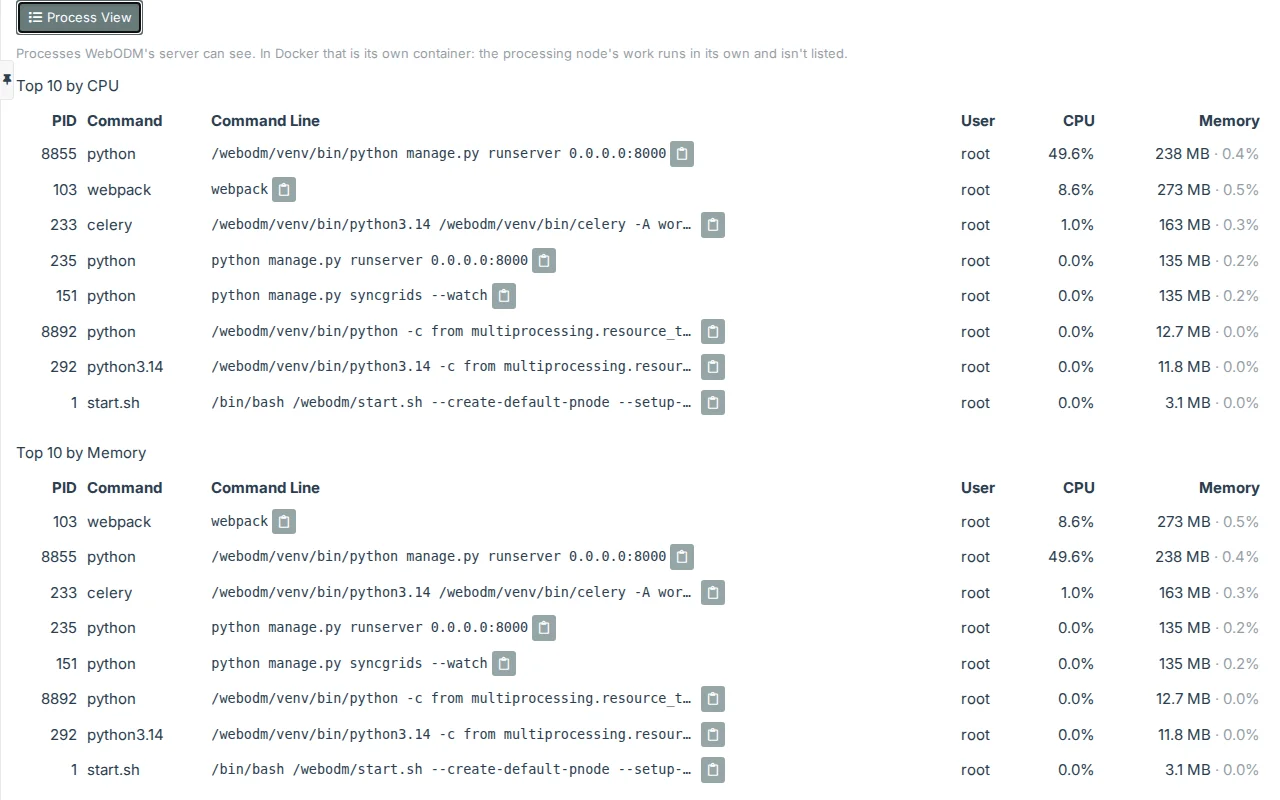
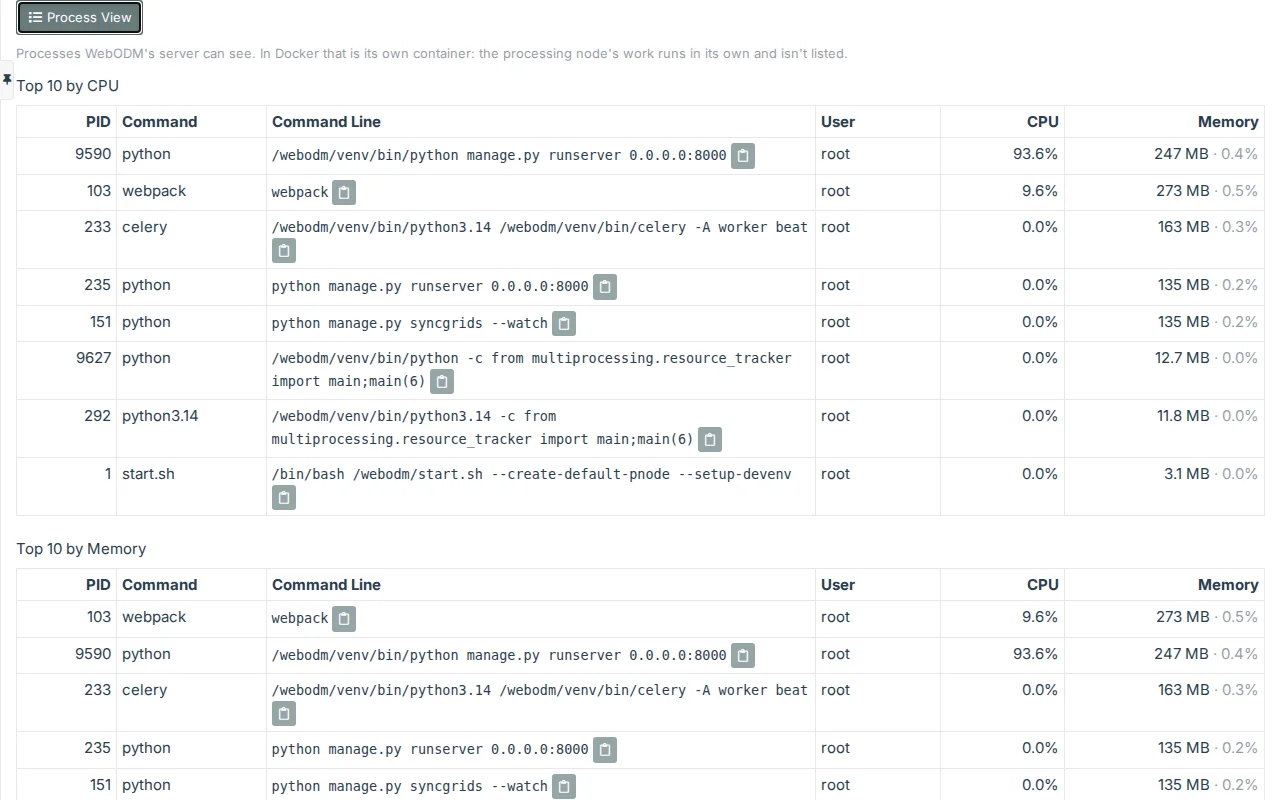
Process View: outlined tables with resizable columns, command lines wrapped and copied whole
The tables are table-bordered in the theme's border colour. Each heading's right edge resizes its column (drag, or
the arrow keys when focused; a double-click resets them), the same width in both tables, kept for the tab; a
refresh during a drag waits until it is let go. A command line wraps at its column's width and shows its first 512
characters; the copy button copies it whole, and the server now sends up to 32768 characters (Windows' longest).

diff --git a/tweakui/public/performance_page.js b/tweakui/public/performance_page.js
@@ -45,6 +45,11 @@
     // Process View (superusers): on or off kept for the tab (sessionStorage, as the graphs' readings), and what it says
     // when WebODM's server runs in a container
     var PROCESSES_KEY = "tweakui.performance.processes";
+    // Its tables' columns: their names and starting widths (shares of the table's width). Dragging a column's edge gives
+    // every column a width in pixels, the same in both tables, kept for the tab: at least COLUMN_MIN, an arrow key moving
+    // an edge COLUMN_STEP. A command line shows this many characters, its copy button copies it whole
+    var PROCESS_COLUMNS = [["PID", 8], ["Command", 12], ["Command Line", 44], ["User", 10], ["CPU", 10], ["Memory", 16]];
+    var COLUMNS_KEY = "tweakui.performance.process-columns", COLUMN_MIN = 40, COLUMN_STEP = 16, COMMAND_SHOWN = 512;
     var CONTAINER_NOTE = "Processes WebODM's server can see. In Docker that is its own container: the processing node's " +
         "work runs in its own and isn't listed.";
 
@@ -473,7 +478,9 @@
         var cpu = p.cpu === null || p.cpu === undefined ? '<span class="text-muted">Measuring...</span>' :
             "<span" + (cores ? ' title="' + escapeHtml((p.cpu / cores).toFixed(1) + "% of all " + plural(cores, "core", "cores")) + '"' : "") +
             ">" + escapeHtml(p.cpu.toFixed(1)) + "%</span>";
-        var command = p.command ? '<code class="tweakui-performance-command" title="' + escapeHtml(p.command) + '">' + escapeHtml(p.command) +
+        var long = p.command && p.command.length > COMMAND_SHOWN;
+        var command = p.command ? '<code class="tweakui-performance-command"' + (long ? ' title="' + escapeHtml(p.command) + '"' : "") + ">" +
+            escapeHtml(long ? p.command.slice(0, COMMAND_SHOWN) + "\u2026" : p.command) +
             '</code> <button type="button" class="btn btn-default btn-xs" data-act="copy-command" data-copy="' + escapeHtml(p.command) +
             '" title="Copy Command Line" aria-label="Copy Command Line"><i class="far fa-clipboard"></i></button>' :
             '<span class="text-muted">Not readable</span>';
@@ -483,24 +490,38 @@
             '</td><td class="tweakui-performance-number">' + cpu + '</td><td class="tweakui-performance-number">' + memory + "</td></tr>";
     }
 
-    // One of Process View's tables (list: null while there is nothing to show, which `empty` says)
-    function processTableHtml(kind, title, list, cores, total, empty) {
+    // A Process View table's width and its columns' (widths: each column's in pixels, or null for the starting shares)
+    function tableStyle(widths) {
+        return widths ? "width: " + widths.reduce(function (a, b) { return a + b; }, 0) + "px; min-width: 0" : "";
+    }
+    function columnsHtml(widths) {
+        return "<colgroup>" + PROCESS_COLUMNS.map(function (c, i) {
+            return '<col style="width: ' + (widths ? widths[i] + "px" : c[1] + "%") + '">';
+        }).join("") + "</colgroup>";
+    }
+
+    // One of Process View's tables (list: null while there is nothing to show, which `empty` says): outlined, each
+    // column's right edge a handle that resizes it
+    function processTableHtml(kind, title, list, cores, total, empty, widths) {
         var html = "<h5>" + title + "</h5>";
         if (!list) return html + '<p class="text-muted small">' + empty + "</p>";
-        return html + '<div class="tweakui-performance-scroll"><table class="table table-condensed tweakui-performance-process-table" data-processes-by="' +
-            kind + '"><thead><tr><th class="tweakui-performance-number">PID</th><th>Command</th><th>Command Line</th><th>User</th>' +
-            '<th class="tweakui-performance-number">CPU</th><th class="tweakui-performance-number">Memory</th></tr></thead><tbody>' +
+        return html + '<div class="tweakui-performance-scroll"><table class="table table-condensed table-bordered theme-border tweakui-performance-process-table" data-processes-by="' +
+            kind + '" style="' + tableStyle(widths) + '">' + columnsHtml(widths) + "<thead><tr>" + PROCESS_COLUMNS.map(function (c, i) {
+                return "<th" + (i === 0 || i > 3 ? ' class="tweakui-performance-number"' : "") + ">" + c[0] +
+                    '<span class="tweakui-performance-resize" role="separator" aria-orientation="vertical" tabindex="0" data-column="' + i +
+                    '" aria-label="Resize ' + c[0] + '" title="Drag to resize; double-click for the starting widths"></span></th>';
+            }).join("") + "</tr></thead><tbody>" +
             list.map(function (p) { return processRowHtml(p, cores, total); }).join("") + "</tbody></table></div>";
     }
 
     // Process View's tables: Top 10 by CPU above Top 10 by Memory (processes: the live figures' processes, undefined
     // until they come, null where the server can't read them)
-    function processesHtml(processes, cores, total) {
+    function processesHtml(processes, cores, total, widths) {
         if (processes === undefined) return '<p class="text-muted">Loading...</p>';
         if (!processes) return '<p class="text-muted">The server\'s processes can\'t be read.</p>';
         return (processes.container ? '<p class="text-muted small">' + CONTAINER_NOTE + "</p>" : "") +
-            processTableHtml("cpu", "Top 10 by CPU", processes.cpu, cores, total, "Measuring: CPU use shows from the next refresh.") +
-            processTableHtml("memory", "Top 10 by Memory", processes.memory, cores, total, "None.");
+            processTableHtml("cpu", "Top 10 by CPU", processes.cpu, cores, total, "Measuring: CPU use shows from the next refresh.", widths) +
+            processTableHtml("memory", "Top 10 by Memory", processes.memory, cores, total, "None.", widths);
     }
 
     // The Process View button (on: pressed) and the place for its tables
@@ -800,11 +821,14 @@
         var status = page.querySelector(".tweakui-performance-status");
         var state = {report: null, cpu: null, load: null, io: null, diskRates: null, history: {}, hover: null,
             seconds: EVERY_DEFAULT, minutes: HISTORY_DEFAULT, diskAt: 0, timer: null, busy: false,
-            looping: false, stopped: false, processesOn: false, processes: undefined};
+            looping: false, stopped: false, processesOn: false, processes: undefined, columns: null};
         try {
             state.processesOn = win.sessionStorage.getItem(PROCESSES_KEY) === "1";
+            var columns = JSON.parse(win.sessionStorage.getItem(COLUMNS_KEY) || "null");
+            if (Array.isArray(columns) && columns.length === PROCESS_COLUMNS.length &&
+                columns.every(function (w) { return typeof w === "number" && w >= COLUMN_MIN; })) state.columns = columns;
         } catch (e) {
-            // Storage that can't be used: Process View starts off
+            // Storage that can't be used: Process View starts off, its columns at their starting widths
         }
 
         // The readings this tab kept before a reload (sessionStorage: a new tab starts fresh, closing it forgets them);
@@ -916,10 +940,78 @@
         function redrawProcesses() {
             var holder = page.querySelector("[data-processes]");
             if (!holder || !state.processesOn) return;
+            // Not while a column is dragged: once it is let go
+            if (drag) {
+                drag.redraw = true;
+                return;
+            }
             var server = state.report.server;
             holder.innerHTML = processesHtml(state.processes, server.cpu && server.cpu.cores,
-                server.memory && server.memory.total);
+                server.memory && server.memory.total, state.columns);
         }
+
+        // Process View's columns: a width each in pixels (null: the starting shares), set on both tables and kept for
+        // the tab
+        var drag = null;
+        function setColumns(widths) {
+            state.columns = widths && widths.map(function (w) { return Math.max(COLUMN_MIN, Math.round(w)); });
+            Array.prototype.forEach.call(page.querySelectorAll(".tweakui-performance-process-table"), function (table) {
+                table.setAttribute("style", tableStyle(state.columns));
+                var cols = table.querySelectorAll("col");
+                PROCESS_COLUMNS.forEach(function (c, i) {
+                    if (cols[i]) cols[i].style.width = state.columns ? state.columns[i] + "px" : c[1] + "%";
+                });
+            });
+            try {
+                if (state.columns) win.sessionStorage.setItem(COLUMNS_KEY, JSON.stringify(state.columns));
+                else win.sessionStorage.removeItem(COLUMNS_KEY);
+            } catch (e) {
+                // Not kept: the tables still take them
+            }
+        }
+        // The columns' widths as drawn, where none are set yet
+        function columnWidths(handle) {
+            if (state.columns) return state.columns.slice();
+            return Array.prototype.map.call(handle.closest("tr").children, function (th) { return th.getBoundingClientRect().width; });
+        }
+        page.addEventListener("pointerdown", ui.guard(NAME, function (e) {
+            var handle = e.target && e.target.closest ? e.target.closest(".tweakui-performance-resize") : null;
+            if (!handle) return;
+            e.preventDefault();
+            var widths = columnWidths(handle), i = Number(handle.getAttribute("data-column"));
+            drag = {handle: handle, column: i, x: e.clientX, start: widths[i], widths: widths, redraw: false};
+            if (handle.setPointerCapture && e.pointerId !== undefined) handle.setPointerCapture(e.pointerId);
+            handle.classList.add("active");
+            // No text selected while dragging (main.css)
+            doc.documentElement.classList.add("tweakui-dragging");
+        }));
+        page.addEventListener("pointermove", ui.guard(NAME, function (e) {
+            if (!drag) return;
+            var widths = drag.widths.slice();
+            widths[drag.column] = drag.start + e.clientX - drag.x;
+            setColumns(widths);
+        }));
+        function endDrag() {
+            if (!drag) return;
+            var again = drag.redraw;
+            drag.handle.classList.remove("active");
+            doc.documentElement.classList.remove("tweakui-dragging");
+            drag = null;
+            if (again) redrawProcesses();
+        }
+        page.addEventListener("pointerup", ui.guard(NAME, endDrag));
+        page.addEventListener("pointercancel", ui.guard(NAME, endDrag));
+        page.addEventListener("dblclick", ui.guard(NAME, function (e) {
+            if (e.target && e.target.closest && e.target.closest(".tweakui-performance-resize")) setColumns(null);
+        }));
+        page.addEventListener("keydown", ui.guard(NAME, function (e) {
+            var handle = e.target && e.target.closest ? e.target.closest(".tweakui-performance-resize") : null;
+            if (!handle || (e.key !== "ArrowLeft" && e.key !== "ArrowRight")) return;
+            e.preventDefault();
+            var widths = columnWidths(handle), i = Number(handle.getAttribute("data-column"));
+            widths[i] += e.key === "ArrowRight" ? COLUMN_STEP : -COLUMN_STEP;
+            setColumns(widths);
+        }));
 
         // The Process View button: its tables open (asked at once, then on every refresh) or close
         function toggleProcesses(btn) {

diff --git a/tweakui/public/__tests__/performance_page.test.js b/tweakui/public/__tests__/performance_page.test.js
@@ -661,7 +661,7 @@ describe("the Performance page", () => {
         expect(words(cpuRowsShown[0])).toBe("12 celery /usr/bin/celery --serve odm 250.0% 2 GB \u00b7 3.1%");
         // CPU of one core, of all cores in its title; the command line whole in its title
         expect(cpuRowsShown[0].querySelector("td:nth-child(5) span").title).toBe("31.3% of all 8 cores");
-        expect(cpuRowsShown[0].querySelector("code").title).toBe("/usr/bin/celery --serve");
+        expect(cpuRowsShown[0].querySelector("code").title).toBe("");
         const writeText = jest.fn(() => Promise.resolve());
         Object.defineProperty(window.navigator, "clipboard", {value: {writeText}, configurable: true});
         cpuRowsShown[0].querySelector("[data-act=copy-command]").click();
@@ -674,6 +674,61 @@ describe("the Performance page", () => {
             .toEqual(["false", true, "0"]);
         await jest.advanceTimersByTimeAsync(3000);
         expect(fetchFn.mock.calls[4][0]).toBe(LIVE);
+    });
+
+    test("Process View's tables are outlined, and a command line wraps, shows 512 characters and is copied whole", async () => {
+        jest.useFakeTimers();
+        window.sessionStorage.setItem("tweakui.performance.processes", "1");
+        const long = "/usr/bin/java " + "-Dsetting=value ".repeat(60);
+        const processes = {container: false, cpu: [proc(3, "java", 99, GB, {command: long})], memory: [proc(3, "java", 99, GB, {command: long})]};
+        const {root} = await started([adminReport(), liveData({processes})]);
+        await jest.advanceTimersByTimeAsync(1000);
+        const table = root.querySelector("[data-processes-by=cpu]");
+        expect(["table-bordered", "theme-border"].every(c => table.classList.contains(c))).toBe(true);
+        expect(root.querySelector("[data-processes]").textContent).not.toContain("In Docker");
+        const code = table.querySelector("code");
+        expect(long.length).toBeGreaterThan(512);
+        expect([code.textContent, code.title]).toEqual([long.slice(0, 512) + "\u2026", long]);
+        const writeText = jest.fn(() => Promise.resolve());
+        Object.defineProperty(window.navigator, "clipboard", {value: {writeText}, configurable: true});
+        table.querySelector("[data-act=copy-command]").click();
+        await jest.advanceTimersByTimeAsync(0);
+        expect(writeText).toHaveBeenCalledWith(long);
+        delete window.navigator.clipboard;
+    });
+
+    test("dragging a column's edge resizes it in both tables, kept for the tab; arrow keys move it, a double-click resets it", async () => {
+        jest.useFakeTimers();
+        window.sessionStorage.setItem("tweakui.performance.processes", "1");
+        window.sessionStorage.setItem("tweakui.performance.process-columns", JSON.stringify([60, 100, 400, 80, 80, 120]));
+        const processes = {container: false, cpu: [proc(3, "java", 99, GB)], memory: [proc(3, "java", 99, GB)]};
+        const later = {container: false, cpu: [proc(4, "late", 5, GB)], memory: [proc(4, "late", 5, GB)]};
+        const {root} = await started([adminReport(), liveData({processes}), liveData({processes: later})]);
+        await jest.advanceTimersByTimeAsync(1000);
+        const widths = by => Array.from(root.querySelectorAll(`[data-processes-by=${by}] col`)).map(c => c.style.width);
+        const tableWidth = by => root.querySelector(`[data-processes-by=${by}]`).style.width;
+        // The tab's widths, from before the reload
+        expect([widths("cpu"), tableWidth("cpu")]).toEqual([["60px", "100px", "400px", "80px", "80px", "120px"], "840px"]);
+        const handle = root.querySelector("[data-processes-by=cpu] [data-column='2']");
+        expect([handle.getAttribute("role"), handle.getAttribute("aria-label")]).toEqual(["separator", "Resize Command Line"]);
+        handle.dispatchEvent(new MouseEvent("pointerdown", {bubbles: true, clientX: 500}));
+        handle.dispatchEvent(new MouseEvent("pointermove", {bubbles: true, clientX: 380}));
+        expect(widths("memory")[2]).toBe("280px");
+        // A refresh while dragging waits until the column is let go
+        await jest.advanceTimersByTimeAsync(3000);
+        expect(root.querySelector("[data-processes-by=cpu] tbody tr").getAttribute("data-pid")).toBe("3");
+        handle.dispatchEvent(new MouseEvent("pointermove", {bubbles: true, clientX: 0}));
+        handle.dispatchEvent(new MouseEvent("pointerup", {bubbles: true}));
+        expect(root.querySelector("[data-processes-by=cpu] tbody tr").getAttribute("data-pid")).toBe("4");
+        // No narrower than 40 pixels, and drawn again with the widths
+        expect([widths("cpu")[2], widths("memory")[2], tableWidth("memory")]).toEqual(["40px", "40px", "480px"]);
+        expect(JSON.parse(window.sessionStorage.getItem("tweakui.performance.process-columns"))).toEqual([60, 100, 40, 80, 80, 120]);
+        const user = root.querySelector("[data-processes-by=memory] [data-column='3']");
+        user.dispatchEvent(new KeyboardEvent("keydown", {bubbles: true, key: "ArrowRight"}));
+        expect(widths("cpu")[3]).toBe("96px");
+        user.dispatchEvent(new MouseEvent("dblclick", {bubbles: true}));
+        expect([widths("cpu"), tableWidth("cpu")]).toEqual([["8%", "12%", "44%", "10%", "10%", "16%"], ""]);
+        expect(window.sessionStorage.getItem("tweakui.performance.process-columns")).toBeNull();
     });
 
     test("Process View stays on for the tab over a reload, and says so where the server can't read its processes", async () => {

diff --git a/tweakui/public/main.css b/tweakui/public/main.css
@@ -381,13 +381,18 @@ html.tweakui-dragging, html.tweakui-dragging * { user-select: none; }
 /* A drive's card: its mount points wrap anywhere (long paths at phone width) */
 .tweakui-performance .tweakui-performance-drive td { overflow-wrap: anywhere; }
 .tweakui-performance .tweakui-performance-disk-note { margin: -12px 0 20px; }
-/* Process View (superusers), under the server's cards: each command line on one line, cut short (whole in its title) */
+/* Process View (superusers), under the server's cards: outlined tables whose columns keep the widths given (fixed
+   layout; at phone width the table scrolls in its box), each cell's text wrapping at its width, and on each heading's
+   right edge a handle that resizes its column */
 .tweakui-performance .tweakui-performance-process-view { margin-bottom: 20px; }
 .tweakui-performance .tweakui-performance-processes { margin-top: 10px; }
-.tweakui-performance .tweakui-performance-process-table td { vertical-align: middle; }
-.tweakui-performance .tweakui-performance-command-cell { white-space: nowrap; }
-.tweakui-performance .tweakui-performance-command { display: inline-block; max-width: 36em; overflow: hidden; text-overflow: ellipsis; white-space: nowrap; vertical-align: middle; color: inherit; background: none; padding: 0; }
-@media (max-width: 767px) { .tweakui-performance .tweakui-performance-command { max-width: 14em; } }
+.tweakui-performance .tweakui-performance-process-table { table-layout: fixed; width: 100%; min-width: 760px; border-width: 1px; border-style: solid; }
+.tweakui-performance .tweakui-performance-process-table th { position: relative; overflow: hidden; text-overflow: ellipsis; white-space: nowrap; }
+.tweakui-performance .tweakui-performance-process-table td { vertical-align: top; overflow-wrap: anywhere; white-space: normal; }
+.tweakui-performance .tweakui-performance-command { white-space: normal; overflow-wrap: anywhere; color: inherit; background: none; padding: 0; }
+.tweakui-performance .tweakui-performance-resize { position: absolute; top: 0; right: 0; bottom: 0; width: 8px; cursor: col-resize; touch-action: none; }
+.tweakui-performance .tweakui-performance-resize:hover, .tweakui-performance .tweakui-performance-resize:focus,
+.tweakui-performance .tweakui-performance-resize.active { border-right: 3px solid currentColor; opacity: 0.5; outline: none; }
 /* The live figures' graphs (inline SVG stretched to the card's width): lines in currentColor, the first series in the
    theme's link colour (read by performance_page.js), the second in its text colour, a light fill under the first;
    hovering shows a cursor and the readings under it */

diff --git a/tweakui/performance.py b/tweakui/performance.py
@@ -317,7 +317,9 @@ def disk_io_entry():
 # Process View: the top processes by CPU and by memory, at most this many each; CPU is the difference between two
 # readings, the last kept in this server process's memory (each of WebODM's worker processes keeps its own) for at most
 # PROCESS_KEEP seconds, keyed by pid and start time so a pid used again isn't taken for the old process
-PROCESS_TOP, PROCESS_KEEP, COMMAND_MAX = 10, 60, 2000
+# A command line is sent whole up to COMMAND_MAX characters (Windows' longest; Linux's are rarely longer), for the page's
+# copy button
+PROCESS_TOP, PROCESS_KEEP, COMMAND_MAX = 10, 60, 32768
 _process_last = {"at": None, "times": {}}
 _process_lock = threading.Lock()
 

diff --git a/docs/performance.md b/docs/performance.md
@@ -93,9 +93,14 @@ plugin's API gives them no processes: a command line can hold passwords, tokens 
 
 ![Process View in WebODM's Docker install: the web container's processes by CPU and by memory](../tweakui/public/previews/performance-processes.webp)
 
-Each process has its **PID**, its **Command** (the program's name, as top shows it), its **Command Line** (on one
-line, cut short; hover it to read it whole, or copy it with the button beside it), its **User**, its **CPU** and its
-**Memory**. CPU is the share of one core since the last refresh, as top shows it (a process using four cores reads
+Each process has its **PID**, its **Command** (the program's name, as top shows it), its **Command Line**, its
+**User**, its **CPU** and its **Memory**, in outlined tables. A command line wraps at its column's width and shows its
+first 512 characters, then "…" (hover a cut-short one to read it whole); the button beside it copies it whole, however
+long.
+
+Drag a column heading's right edge to resize the column; the column takes that width in both tables, and the browser
+tab keeps the widths over a reload. A focused edge moves with the Left and Right arrow keys, and double-clicking an
+edge puts every column back to its starting width. At phone width the tables scroll sideways in their box. CPU is the share of one core since the last refresh, as top shows it (a process using four cores reads
 400%); hover it for its share of all the cores. Memory is what the process holds in memory (its resident size, or
 working set on Windows) and its share of the machine's. A process whose command line can't be read (a kernel thread,
 or another user's protected process) says so.

diff --git a/upcoming-changes.md b/upcoming-changes.md
@@ -10,6 +10,13 @@
   cleaner hook; see "Global Controls: units and temperature in the header".
 
 **Done**
+- **Performance View: Process View's tables outlined, resizable, command lines wrapped** (user request, 2026-11-09)
+  — branch `perf-process-table`: `performance_page.js` (`table-bordered theme-border`, a `colgroup` and a resize
+  handle on each heading: drag, arrow keys, double-click to reset; widths in pixels shared by both tables, kept in
+  session storage; a redraw during a drag waits for it; a command line's first 512 characters, copied whole),
+  `main.css` (fixed layout, 760px at least, wrapping cells), `performance.py` (`COMMAND_MAX` 32768, Windows' longest).
+  Tests: `performance_page.test.js` (2). Docs `performance.md`, CHANGELOG, screenshot `performance-processes`. Live
+  on 4.0.0 and 3.3.2 (a mouse drag through a refresh, reload, keys, reset, phone width).
 - **Performance View: Process View** (new.md, 2026-11-09) — branch `perf-process-view`: `performance.py`
   (`linux_processes`/`linux_details` from `/proc`, `windows_processes`/`windows_details` through ctypes,
   `process_tops`: CPU from the last reading kept per server process for 60 s by pid and start time, details read only

diff --git a/CHANGELOG.md b/CHANGELOG.md
@@ -12,7 +12,9 @@
 - Performance View: Recent Processing is now **Recent Task History**.
 - Performance View: **Process View**, for superusers, under the server's cards: the top 10 processes WebODM's server
   can see by CPU and by memory (PID, command, command line with a copy button, user, CPU and memory), refreshed with
-  CPU Load. In Docker that is the web container's own processes.
+  CPU Load. In Docker that is the web container's own processes. The tables are outlined, their columns resizable
+  (kept for the browser tab), and a command line wraps at its column's width, showing its first 512 characters; its
+  copy button copies it whole.
 - Performance View > Recent Task History: an **Actions** menu on each task, in alphabetical order: Download Report
   and View Report (for a task with a report), Download Task Logs, and Restart From Load Dataset (as WebODM's
   Restart, where the Dashboard offers it).
